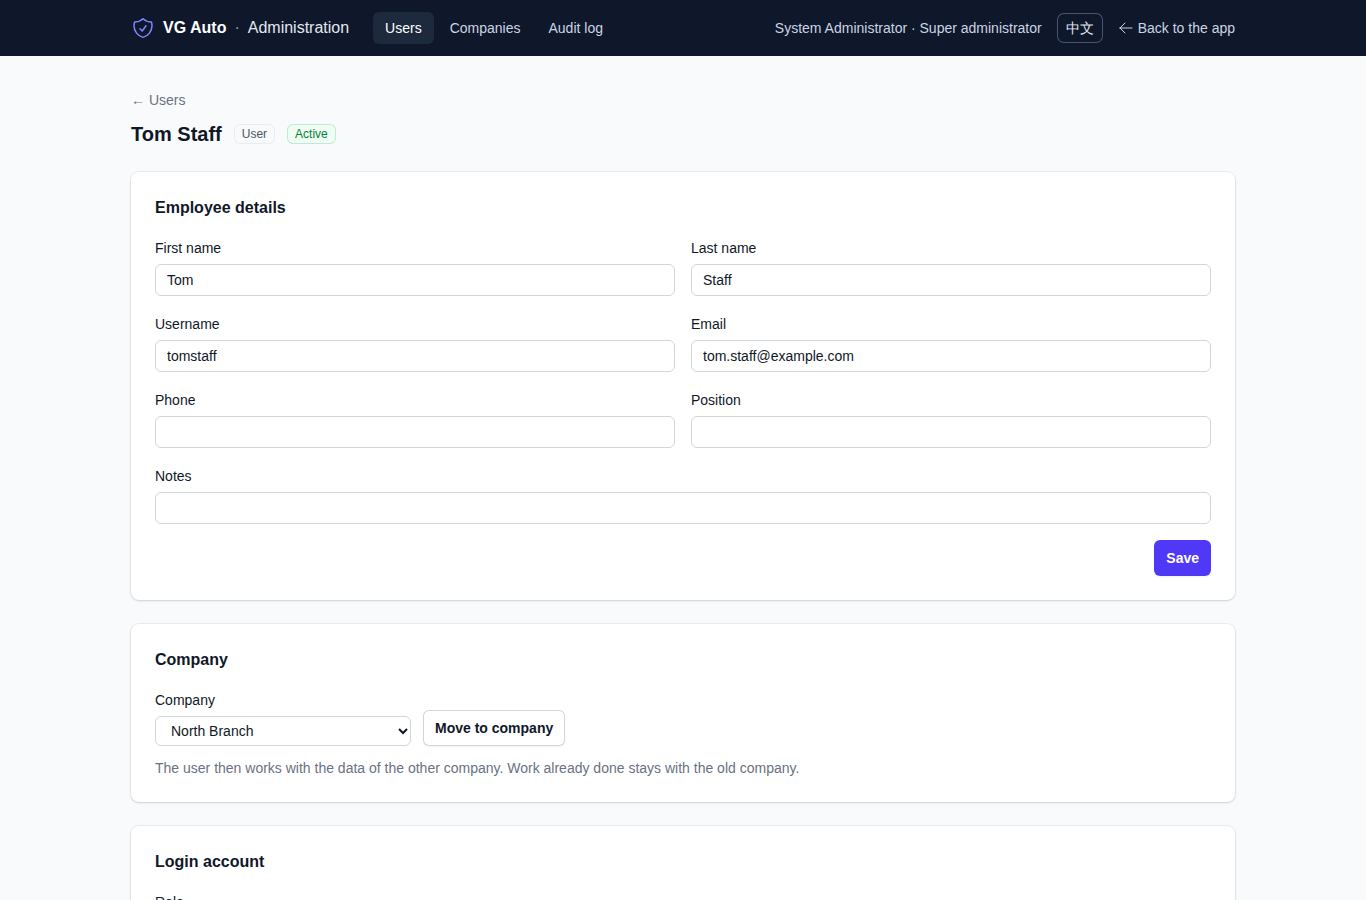
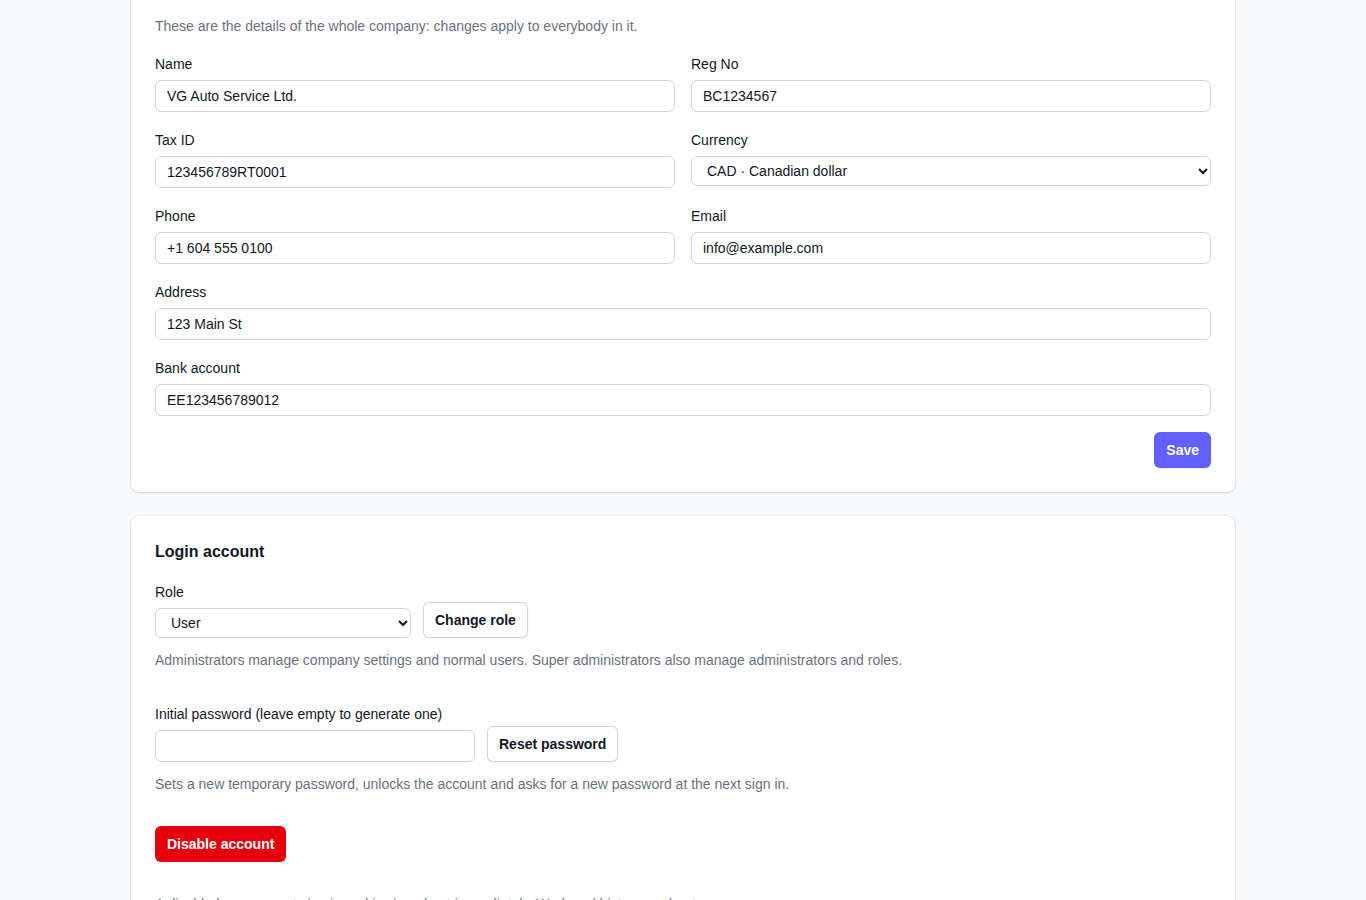
Admin user page: company field and company details
- "Company" is a field of the employee details; saving a different
  company moves the user (same permission as the move endpoint)
- The user page shows the details of the user's company (name, Reg No,
  Tax ID, currency, contact, bank account) and saves them for the whole
  company; link to all settings of that company
- Docs and screenshot updated; test covers moving through the edit form

Claude-Session: https://claude.ai/code/session_011m3Bs59Mr4XKirpuLi49QF

diff --git a/frontend/src/app/admin/users/[id]/UserForms.tsx b/frontend/src/app/admin/users/[id]/UserForms.tsx
@@ -1,7 +1,7 @@
 'use client'
 
 import { useActionState } from 'react'
-import { accountAction, ActionState, changeCompany, changeRole, createAccount, editUser, resetPassword } from '../../actions'
+import { accountAction, ActionState, changeRole, createAccount, editUser, resetPassword, saveCompanyInfo } from '../../actions'
 import type { Dictionary } from '../../_i18n'
 import type { IAdminUser } from '../../model'
 import { Alert, CompanySelect, Field, RoleSelect, SubmitButton, TemporaryPassword } from '../../_components/Fields'
@@ -9,11 +9,18 @@ import { Alert, CompanySelect, Field, RoleSelect, SubmitButton, TemporaryPasswor
 type Props = { user: IAdminUser, t: Dictionary }
 const can = (user: IAdminUser, action: string) => user.allowedActions.includes(action)
 
-export function ProfileForm({ user, t }: Props) {
+type Company = { id: string, name: string }
+
+export function ProfileForm({ user, t, companies }: Props & { companies: Company[] }) {
   const [state, action, pending] = useActionState<ActionState, FormData>(editUser, {})
   const editable = can(user, 'EditProfile')
+  const movable = can(user, 'ChangeCompany')
+  const confirmMove = (e: React.FormEvent<HTMLFormElement>) => {
+    const selected = new FormData(e.currentTarget).get('companyId')
+    if (movable && selected && selected !== user.companyId && !window.confirm(t.confirmMove)) e.preventDefault()
+  }
   return (
-    <form action={action} className="space-y-4">
+    <form action={action} onSubmit={confirmMove} className="space-y-4">
       <input type="hidden" name="employeeId" value={user.employeeId} />
       {state.error && <Alert kind="error">{state.error}</Alert>}
       {state.ok && <Alert kind="success">{t.saved}</Alert>}
@@ -25,6 +32,12 @@ export function ProfileForm({ user, t }: Props) {
         <Field label={t.phone} name="phone" defaultValue={user.phone} disabled={!editable} />
         <Field label={t.profession} name="profession" defaultValue={user.profession} disabled={!editable} />
         <Field label={t.description} name="description" defaultValue={user.description} disabled={!editable} className="sm:col-span-2" />
+        {movable
+          ? <div className="sm:col-span-2">
+              <CompanySelect key={user.companyId} label={t.companyOf} companies={companies} defaultValue={user.companyId} />
+              <p className="mt-1 text-xs text-gray-500">{t.companyFieldHint}</p>
+            </div>
+          : <Field label={t.companyOf} name="companyName" defaultValue={user.companyName} disabled className="sm:col-span-2" />}
       </div>
       {editable && <div className="flex justify-end"><SubmitButton pending={pending}>{t.save}</SubmitButton></div>}
     </form>
@@ -101,20 +114,37 @@ export function AccountButton({ user, action: name, label, danger, confirmText }
   )
 }
 
-export function CompanyForm({ user, t, companies }: Props & { companies: { id: string, name: string }[] }) {
-  const [state, action, pending] = useActionState<ActionState, FormData>(changeCompany, {})
+export interface ICompanyInfo {
+  requisites: { name: string, phone: string, address: string, email: string, bankAccount: string, regNr: string, kmkr: string }
+  pricing: { currency: string }
+}
+
+export function CompanyInfoForm({ t, companyId, info, currencies }: { t: Dictionary, companyId: string, info: ICompanyInfo, currencies: { code: string, name: string }[] }) {
+  const [state, action, pending] = useActionState<ActionState, FormData>(saveCompanyInfo, {})
+  const r = info.requisites
   return (
-    <form action={action} className="space-y-3" onSubmit={e => { if (!window.confirm(t.confirmMove)) e.preventDefault() }}>
-      <input type="hidden" name="employeeId" value={user.employeeId} />
+    <form key={companyId} action={action} className="space-y-4">
+      <input type="hidden" name="companyId" value={companyId} />
       {state.error && <Alert kind="error">{state.error}</Alert>}
       {state.ok && <Alert kind="success">{t.saved}</Alert>}
-      <div className="flex flex-wrap items-end gap-3">
-        <div className="w-64">
-          <CompanySelect key={user.companyId} label={t.companyOf} companies={companies} defaultValue={user.companyId} />
+      <p className="text-sm text-gray-500">{t.companyInfoHint}</p>
+      <div className="grid grid-cols-1 gap-4 sm:grid-cols-2">
+        <Field label={t.companyName} name="name" id="company-name" defaultValue={r.name} required />
+        <Field label={t.regNo} name="regNr" id="company-regNr" defaultValue={r.regNr} />
+        <Field label={t.taxId} name="kmkr" id="company-kmkr" defaultValue={r.kmkr} />
+        <div>
+          <label htmlFor="companyCurrency" className="block text-sm/6 font-medium text-gray-900">{t.currency}</label>
+          <select id="companyCurrency" name="currency" defaultValue={info.pricing.currency}
+            className="mt-1 block w-full rounded-md bg-white px-3 py-1.5 text-sm text-gray-900 outline-1 -outline-offset-1 outline-gray-300 focus:outline-2 focus:-outline-offset-2 focus:outline-indigo-600">
+            {currencies.map(c => <option key={c.code} value={c.code}>{c.code} · {c.name}</option>)}
+          </select>
         </div>
-        <SubmitButton pending={pending} secondary>{t.moveCompany}</SubmitButton>
+        <Field label={t.phone} name="phone" id="company-phone" defaultValue={r.phone} />
+        <Field label={t.email} name="email" id="company-email" type="email" defaultValue={r.email} />
+        <Field label={t.address} name="address" id="company-address" defaultValue={r.address} className="sm:col-span-2" />
+        <Field label={t.bankAccount} name="bankAccount" id="company-bankAccount" defaultValue={r.bankAccount} className="sm:col-span-2" />
       </div>
-      <p className="text-sm text-gray-500">{t.moveCompanyHint}</p>
+      <div className="flex justify-end"><SubmitButton pending={pending}>{t.save}</SubmitButton></div>
     </form>
   )
 }

diff --git a/frontend/src/app/admin/users/[id]/page.tsx b/frontend/src/app/admin/users/[id]/page.tsx
@@ -6,7 +6,7 @@ import { getDictionary } from '../../_i18n'
 import { IAdminUser, ICompany } from '../../model'
 import { RoleBadges, StatusBadges } from '../../_components/Badges'
 import { Alert } from '../../_components/Fields'
-import { AccountButton, CompanyForm, CreateAccountForm, ProfileForm, ResetPasswordForm, RoleForm } from './UserForms'
+import { AccountButton, CompanyInfoForm, CreateAccountForm, ICompanyInfo, ProfileForm, ResetPasswordForm, RoleForm } from './UserForms'
 
 function Section({ title, children }: { title: string, children: React.ReactNode }) {
   return (
@@ -29,6 +29,9 @@ export default async function UserPage({ params }: { params: Promise<{ id: strin
   const user = await response.json() as IAdminUser
   const { t } = await getDictionary()
   const companies = can0(user, 'ChangeCompany') ? await (await httpGet('admin/companies')).json() as ICompany[] : []
+  const companyResponse = await httpRaw('GET', `admin/companies/${user.companyId}/options`)
+  const companyInfo = companyResponse.ok ? await companyResponse.json() as ICompanyInfo : null
+  const currencies = companyInfo ? await (await httpGet('options/currencies')).json() as { code: string, name: string }[] : []
   const can = (action: string) => user.allowedActions.includes(action)
   const creatableRoles = me.role === 'superadmin' ? ['user', 'admin', 'superadmin'] : ['user']
   const readOnly = user.hasAccount && !user.isSelf && !user.isOwner && user.allowedActions.length === 0
@@ -49,14 +52,18 @@ export default async function UserPage({ params }: { params: Promise<{ id: strin
       {readOnly && <Alert kind="info">{t.noRightsHint}</Alert>}
 
       <Section title={t.profileSection}>
-        <ProfileForm user={user} t={t} />
+        <ProfileForm user={user} t={t} companies={companies} />
       </Section>
 
-      <Section title={t.companyOf}>
-        {can('ChangeCompany')
-          ? <CompanyForm user={user} t={t} companies={companies} />
-          : <p className="text-sm text-gray-700">{user.companyName ?? '—'}</p>}
-      </Section>
+      {companyInfo && (
+        <section className="rounded-lg bg-white p-6 shadow-sm ring-1 ring-gray-900/5">
+          <div className="mb-4 flex flex-wrap items-baseline justify-between gap-2">
+            <h2 className="text-base font-semibold text-gray-900">{t.companyInfoOf} · {companyInfo.requisites.name}</h2>
+            <Link href={`/admin/companies/${user.companyId}`} className="text-sm font-semibold text-indigo-600 hover:text-indigo-500">{t.allSettings} →</Link>
+          </div>
+          <CompanyInfoForm t={t} companyId={user.companyId} info={companyInfo} currencies={currencies} />
+        </section>
+      )}
 
       <Section title={t.accountSection}>
         {!user.hasAccount && (can('CreateAccount')

diff --git a/frontend/src/app/admin/actions.ts b/frontend/src/app/admin/actions.ts
@@ -63,6 +63,7 @@ export async function editUser(_: ActionState, form: FormData): Promise<ActionSt
     profession: field(form, 'profession'),
     description: field(form, 'description'),
     userName: field(form, 'userName') || null,
+    companyId: field(form, 'companyId') || null,
   }, id)
 }
 
@@ -155,7 +156,25 @@ export async function createCompany(_: ActionState, form: FormData): Promise<Act
   redirect(`/admin/companies/${companyId}`)
 }
 
-export async function changeCompany(_: ActionState, form: FormData): Promise<ActionState> {
-  const id = field(form, 'employeeId')
-  return send('PUT', `admin/users/${id}/company`, { companyId: field(form, 'companyId') }, id)
+/** Company details edited from the user page: merged into the full settings of that company. */
+export async function saveCompanyInfo(_: ActionState, form: FormData): Promise<ActionState> {
+  const companyId = field(form, 'companyId')
+  if (!/^[0-9a-fA-F-]{36}$/.test(companyId)) return { ok: false, error: 'Unknown company.' }
+  const current = await httpRaw('GET', `admin/companies/${companyId}/options`)
+  if (!current.ok) return { ok: false, error: await errorOf(current) }
+  const options = await current.json()
+  return send('PUT', `admin/companies/${companyId}/options`, {
+    ...options,
+    requisites: {
+      ...options.requisites,
+      name: text(form, 'name'),
+      regNr: text(form, 'regNr'),
+      kmkr: text(form, 'kmkr'),
+      phone: text(form, 'phone'),
+      email: text(form, 'email'),
+      address: text(form, 'address'),
+      bankAccount: text(form, 'bankAccount'),
+    },
+    pricing: { ...options.pricing, currency: text(form, 'currency') },
+  })
 }

diff --git a/frontend/src/app/admin/_i18n.ts b/frontend/src/app/admin/_i18n.ts
@@ -19,9 +19,11 @@ const en = {
   employees: 'Employees',
   logins: 'Logins',
   companyOf: 'Company',
-  moveCompany: 'Move to company',
-  moveCompanyHint: 'The user then works with the data of the other company. Work already done stays with the old company.',
   confirmMove: 'Move this user to the selected company?',
+  companyInfoOf: 'Company details',
+  companyInfoHint: 'These are the details of the whole company: changes apply to everybody in it.',
+  allSettings: 'All settings of this company',
+  companyFieldHint: 'Changing the company moves the user: they then work with the data of the other company.',
   companyInfo: 'Company information',
   companyHint: 'Name, Reg No, Tax ID and currency can only be changed here. The users of the company can change the other settings in the app.',
   companyName: 'Name',
@@ -135,9 +137,11 @@ const zh: typeof en = {
   employees: '员工',
   logins: '登录账号',
   companyOf: '所属公司',
-  moveCompany: '调到其他公司',
-  moveCompanyHint: '调动后该用户使用新公司的数据；已经做过的工单留在原公司。',
   confirmMove: '确定把这个用户调到所选公司？',
+  companyInfoOf: '公司信息',
+  companyInfoHint: '这是整个公司的信息，修改后对该公司的所有人生效。',
+  allSettings: '该公司的全部设置',
+  companyFieldHint: '修改所属公司即调动该用户：之后他使用新公司的数据。',
   companyInfo: '公司信息',
   companyHint: '公司名称、Reg No、Tax ID 和币种只能在这里修改；其他设置该公司的用户可以在系统里修改。',
   companyName: '公司名称',

diff --git a/frontend/src/app/admin/_components/Fields.tsx b/frontend/src/app/admin/_components/Fields.tsx
@@ -2,14 +2,14 @@ import clsx from 'clsx'
 
 const inputClass = 'block w-full rounded-md bg-white px-3 py-1.5 text-sm text-gray-900 outline-1 -outline-offset-1 outline-gray-300 placeholder:text-gray-400 focus:outline-2 focus:-outline-offset-2 focus:outline-indigo-600 disabled:bg-gray-50 disabled:text-gray-500'
 
-export function Field({ label, name, defaultValue, type = 'text', required, disabled, placeholder, className, autoComplete }: {
-  label: string, name: string, defaultValue?: string | null, type?: string, required?: boolean, disabled?: boolean,
+export function Field({ label, name, id = name, defaultValue, type = 'text', required, disabled, placeholder, className, autoComplete }: {
+  label: string, name: string, id?: string, defaultValue?: string | null, type?: string, required?: boolean, disabled?: boolean,
   placeholder?: string, className?: string, autoComplete?: string
 }) {
   return (
     <div className={className}>
-      <label htmlFor={name} className="block text-sm/6 font-medium text-gray-900">{label}</label>
-      <input id={name} name={name} type={type} defaultValue={defaultValue ?? ''} required={required} disabled={disabled}
+      <label htmlFor={id} className="block text-sm/6 font-medium text-gray-900">{label}</label>
+      <input id={id} name={name} type={type} defaultValue={defaultValue ?? ''} required={required} disabled={disabled}
         placeholder={placeholder} autoComplete={autoComplete ?? 'off'} className={clsx('mt-1', inputClass)} />
     </div>
   )

diff --git a/backend/src/VgAuto.Http.Api/Controllers/AdminController.cs b/backend/src/VgAuto.Http.Api/Controllers/AdminController.cs
@@ -69,7 +69,7 @@ namespace VgAuto.Http.Api.Controllers
 
         public record CompanyInput(Guid CompanyId);
 
-        public record EditUserInput(string FirstName, string LastName, string Email, string Phone, string Profession, string Description, string UserName);
+        public record EditUserInput(string FirstName, string LastName, string Email, string Phone, string Profession, string Description, string UserName, Guid? CompanyId = null);
 
         public record AccountInput(string UserName, string Password, string Role);
 
@@ -159,6 +159,8 @@ namespace VgAuto.Http.Api.Controllers
             var (employee, account) = Load(employeeId);
             if (employee == null) return NotFound();
             Allow(me, TargetOf(me, employee, account), AdminAction.EditProfile);
+            var moveTo = input.CompanyId is Guid target && target != Guid.Empty && target != employee.CompanyId ? target : (Guid?)null;
+            if (moveTo != null) Allow(me, TargetOf(me, employee, account), AdminAction.ChangeCompany);
 
             employee.Change(Required(input.FirstName, "First name"), Required(input.LastName, "Last name"),
                 Clean(input.Phone), Clean(input.Email), Clean(input.Profession), Clean(input.Description));
@@ -184,6 +186,7 @@ namespace VgAuto.Http.Api.Controllers
                 users.Update(account);
             }
             await Log("user.edit", account?.UserName, string.Join(", ", changes.Prepend(employee.Name)));
+            if (moveTo != null) await MoveToCompany(employee, account, moveTo.Value);
             return Ok();
         }
 
@@ -279,20 +282,25 @@ namespace VgAuto.Http.Api.Controllers
         [HttpPut("users/{employeeId:guid}/company")]
         public async Task<IActionResult> ChangeCompany(Guid employeeId, [FromBody] CompanyInput input)
         {
-            var (me, employee, account) = Authorize(employeeId, AdminAction.ChangeCompany);
+            var (_, employee, account) = Authorize(employeeId, AdminAction.ChangeCompany);
+            await MoveToCompany(employee, account, input.CompanyId);
+            return Ok();
+        }
+
+        private async Task MoveToCompany(Employee employee, User account, Guid companyId)
+        {
             var names = CompanyNames();
-            if (!names.ContainsKey(input.CompanyId)) throw new UserException("Unknown company.");
-            if (employee.CompanyId == input.CompanyId) return Ok();
+            if (!names.ContainsKey(companyId)) throw new UserException("Unknown company.");
+            if (employee.CompanyId == companyId) return;
             var previous = names.TryGetValue(employee.CompanyId, out var n) ? n : employee.CompanyId.ToString();
-            employee.BelongsTo(input.CompanyId);
+            employee.BelongsTo(companyId);
             session.Update(employee);
             if (account != null)
             {
-                account.MoveToCompany(input.CompanyId);
+                account.MoveToCompany(companyId);
                 users.Update(account);
             }
-            await Log("user.company", account?.UserName, $"{employee.Name}: {previous} -> {names[input.CompanyId]}");
-            return Ok();
+            await Log("user.company", account?.UserName, $"{employee.Name}: {previous} -> {names[companyId]}");
         }
 
         // ---------------------------------------------------------------- companies

diff --git a/backend/tests/VgAuto.Tests/Integration/CompanyTests.cs b/backend/tests/VgAuto.Tests/Integration/CompanyTests.cs
@@ -105,6 +105,15 @@ namespace VgAuto.Tests.Integration
             (await owner.PutAsJsonAsync($"/api/admin/users/{userB.GetProperty("employeeId").GetGuid()}/company", new { companyId = companyA })).EnsureSuccessStatusCode();
             Assert.Single((await Json(await staffB.GetAsync($"/api/clients/page?limit=10&searchText=alpha{suffix}"))).GetProperty("items").EnumerateArray());
             Assert.Empty((await Json(await staffB.GetAsync($"/api/clients/page?limit=10&searchText=beta{suffix}"))).GetProperty("items").EnumerateArray());
+            // the company can also be changed together with the employee details
+            (await owner.PutAsJsonAsync($"/api/admin/users/{userB.GetProperty("employeeId").GetGuid()}", new
+            {
+                firstName = "Test", lastName = "staffb" + suffix, email = $"staffb{suffix}@example.com",
+                userName = "staffb" + suffix, companyId = companyB,
+            })).EnsureSuccessStatusCode();
+            Assert.Single((await Json(await staffB.GetAsync($"/api/clients/page?limit=10&searchText=beta{suffix}"))).GetProperty("items").EnumerateArray());
+            var moved = (await Json(await owner.GetAsync("/api/admin/users"))).EnumerateArray().Single(u => u.GetProperty("userName").GetString() == "staffb" + suffix);
+            Assert.Equal(companyB, moved.GetProperty("companyId").GetGuid());
             Assert.NotNull(firstCompany);
         }
     }

diff --git a/README.en.md b/README.en.md
@@ -197,7 +197,8 @@ Administrators manage companies, employees and logins at `https://your-domain/ad
   - Every company has its own clients, vehicles, work, inventory, estimates and invoices, its own numbering (work, estimate and invoice numbers start at 1 per company), its own settings and currency.
   - Every employee belongs to one company and only sees the data of that company.
   - The **Companies** page lists all companies (Reg No, currency, employees, logins), creates new ones (name and currency), and **Edit** opens all details, currency, invoice and offer options of that company.
-  - Choose the company when creating a user; **Company** on the user page moves an employee to another company. They then work with the new company's data; work already done stays with the old company. You cannot move yourself.
+  - Choose the company when creating a user. **Company** in the employee details of the user page moves an employee to another company when saved. They then work with the new company's data; work already done stays with the old company. You cannot move yourself.
+  - **Company details** further down the user page edit the name, Reg No, Tax ID, currency, phone, email, address and bank account of that user's company (for the whole company); invoice and offer options are under **All settings of this company**.
   - Data that existed before the upgrade belongs to the first company.
 - **Audit log**: who created accounts, changed details, reset passwords, disabled/enabled users, changed roles, created companies, changed company settings, moved users to another company, sent test emails, and when.
 

diff --git a/README.md b/README.md
@@ -197,7 +197,8 @@ VG Auto 是一套自托管的汽修厂管理系统。从接车开报价、客户
   - 每个公司有各自的客户、车辆、工单、库存、报价单和发票，以及各自的编号（每个公司的工单、报价单、发票都从 1 开始编号）和各自的设置、币种。
   - 每个员工属于一个公司，登录后只能看到自己公司的数据。
   - 后台 **公司** 页面列出所有公司（Reg No、币种、员工数、登录账号数），可以新建公司（名称和币种），点 **编辑** 修改该公司的全部信息、币种、发票和报价单设置。
-  - 新建用户时选择所属公司；用户详情页的 **所属公司** 可以把员工调到其他公司，调动后他看到的是新公司的数据，已经做过的工单留在原公司。不能调动自己。
+  - 新建用户时选择所属公司。用户详情页的 **员工信息** 里有 **所属公司** 字段，改了保存就把员工调到其他公司，调动后他看到的是新公司的数据，已经做过的工单留在原公司。不能调动自己。
+  - 用户详情页下方的 **公司信息** 可以直接修改该用户所属公司的名称、Reg No、Tax ID、币种、电话、邮箱、地址和银行账户（对整个公司生效）；发票和报价单设置点 **该公司的全部设置**。
   - 升级前已有的数据全部归入第一个公司。
 - **操作日志**：记录谁在什么时间新建账号、修改资料、重置密码、禁用/启用、修改角色、新建公司、修改公司设置、调动公司和发送测试邮件。
 
